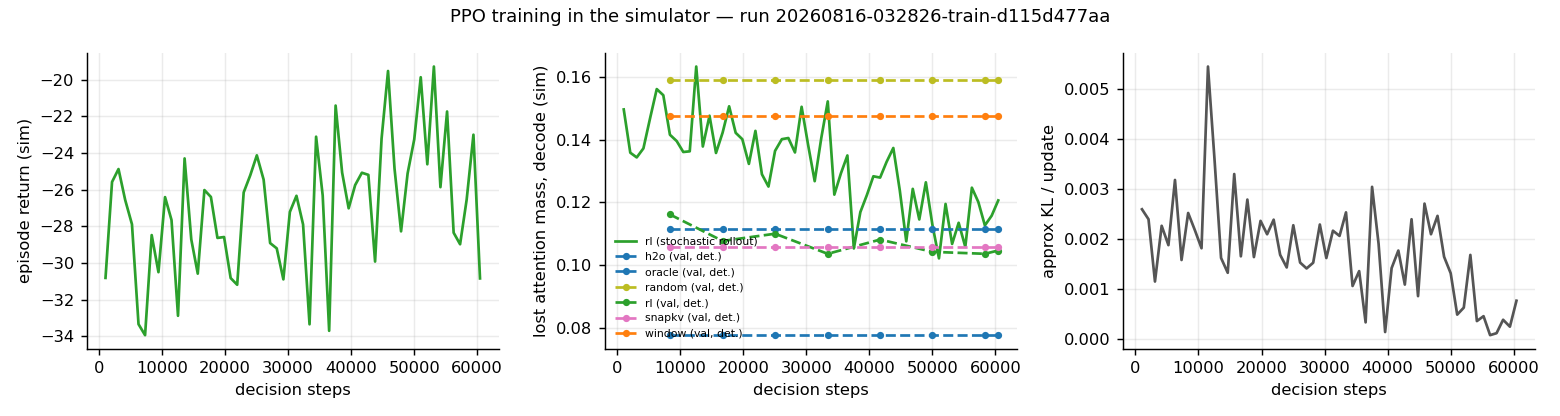
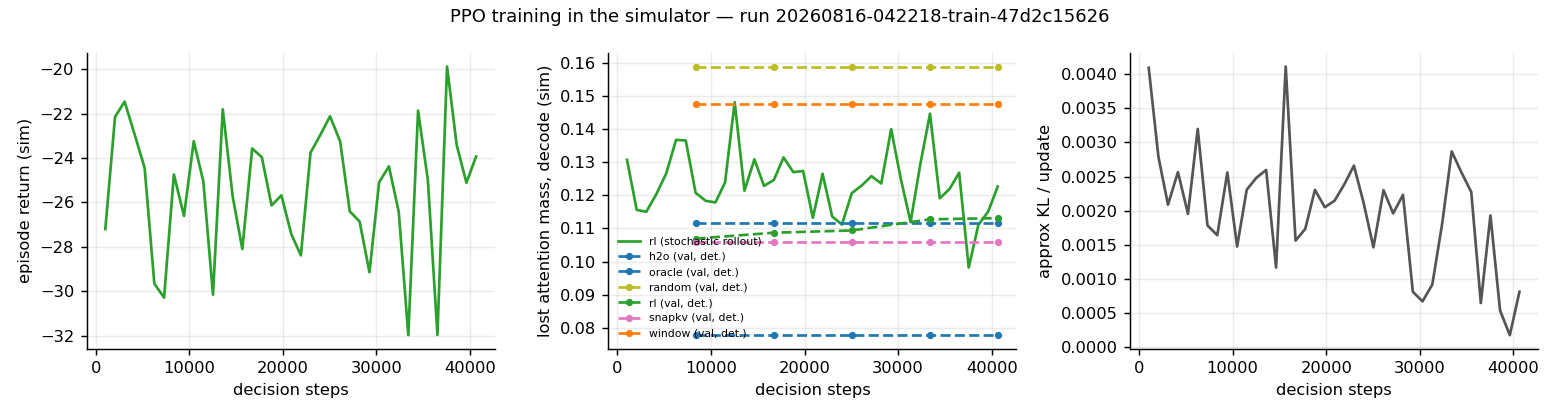
exp: benchmark run + report (latency/memory vs context, decode curve with 16K memory cliff, pre-cliff cost model); README results injected

diff --git a/kvrl/bench/cost_model.py b/kvrl/bench/cost_model.py
@@ -19,6 +19,7 @@ class DecodeCostModel:
     r2: float
     n_points: int
     device: str = ""
+    excluded: list | None = None  # cache lengths beyond the memory cliff (not fitted)
 
     def decode_ms(self, cache_len: float) -> float:
         return self.ms_per_token_base + self.ms_per_token_per_1k * cache_len / 1024.0
@@ -33,10 +34,22 @@ class DecodeCostModel:
         }
 
 
-def fit_decode_cost(curve: list[dict], device: str = "") -> DecodeCostModel:
-    """curve rows: {cache_len, decode_ms_per_tok_median}."""
-    x = np.array([r["cache_len"] for r in curve], dtype=float) / 1024.0
-    y = np.array([r["decode_ms_per_tok_median"] for r in curve], dtype=float)
+def fit_decode_cost(
+    curve: list[dict], device: str = "", cliff_factor: float = 4.0
+) -> DecodeCostModel:
+    """curve rows: {cache_len, decode_ms_per_tok_median}. Points whose cost exceeds
+    ``cliff_factor`` × the median of the others are treated as a memory cliff (e.g. the
+    machine starts swapping) and excluded from the affine fit but reported."""
+    xs = np.array([r["cache_len"] for r in curve], dtype=float)
+    ys = np.array([r["decode_ms_per_tok_median"] for r in curve], dtype=float)
+    keep = np.ones(len(xs), dtype=bool)
+    for i in range(len(xs)):
+        others = np.delete(ys, i)
+        if len(others) and ys[i] > cliff_factor * np.median(others):
+            keep[i] = False
+    excluded = [int(v) for v in xs[~keep]]
+    x = xs[keep] / 1024.0
+    y = ys[keep]
     if len(x) < 2:
         raise ValueError("need at least two curve points")
     A = np.stack([np.ones_like(x), x], axis=1)
@@ -44,4 +57,6 @@ def fit_decode_cost(curve: list[dict], device: str = "") -> DecodeCostModel:
     pred = A @ coef
     ss_res = float(((y - pred) ** 2).sum())
     ss_tot = float(((y - y.mean()) ** 2).sum()) or 1e-9
-    return DecodeCostModel(float(coef[0]), float(coef[1]), 1 - ss_res / ss_tot, len(x), device)
+    return DecodeCostModel(
+        float(coef[0]), float(coef[1]), 1 - ss_res / ss_tot, len(x), device, excluded
+    )

diff --git a/README.md b/README.md
@@ -157,8 +157,143 @@ Regenerate with `python scripts/make_report.py` (figures in `docs/figures/`, tab
 `docs/results.md`); `scripts/update_readme_results.py` copies them below verbatim.
 
 <!-- RESULTS:BEGIN -->
-_Results are being produced by the tracked runs listed in `.claude/context/EXPERIMENTS.md`;
-this section is filled by `scripts/make_report.py` — see `docs/results.md`._
+### Real-model evaluation — run `20260816-041435-eval-cc4cddaae0` (commit `902eebbc`, Apple MPS, 494 rows)
+
+| controller | budget | n | accuracy | NLL | fidelity | KV peak | model s | ctrl s | compact s |
+|---|---|---|---|---|---|---|---|---|---|
+| h2o | 50% | 26 | 0.091 | 0.840 | 0.553 | 54% | 5.91 | 0.009 | 0.108 |
+| keynorm | 50% | 26 | 0.409 | 0.678 | 0.745 | 54% | 3.20 | 0.006 | 0.112 |
+| random | 50% | 26 | 0.000 | 0.824 | 0.506 | 54% | 3.36 | 0.008 | 0.124 |
+| rl | 50% | 26 | 0.364 | 0.690 | 0.747 | 54% | 5.96 | 0.062 | 0.119 |
+| snapkv | 50% | 26 | 0.136 | 0.737 | 0.475 | 54% | 5.80 | 0.007 | 0.123 |
+| window | 50% | 26 | 0.227 | 0.800 | 0.522 | 54% | 3.45 | 0.007 | 0.149 |
+| h2o | 25% | 26 | 0.045 | 0.941 | 0.437 | 30% | 4.85 | 0.013 | 0.178 |
+| keynorm | 25% | 26 | 0.273 | 0.763 | 0.635 | 30% | 3.13 | 0.009 | 0.167 |
+| random | 25% | 26 | 0.000 | 0.914 | 0.331 | 30% | 3.28 | 0.011 | 0.172 |
+| rl | 25% | 26 | 0.136 | 0.783 | 0.521 | 30% | 4.75 | 0.080 | 0.172 |
+| snapkv | 25% | 26 | 0.000 | 0.868 | 0.355 | 30% | 5.02 | 0.010 | 0.161 |
+| window | 25% | 26 | 0.045 | 0.908 | 0.366 | 30% | 3.40 | 0.010 | 0.226 |
+| h2o | 12% | 26 | 0.045 | 0.965 | 0.382 | 17% | 3.99 | 0.015 | 0.227 |
+| keynorm | 12% | 26 | 0.227 | 0.803 | 0.575 | 17% | 2.97 | 0.012 | 0.226 |
+| random | 12% | 26 | 0.000 | 0.909 | 0.308 | 17% | 3.27 | 0.011 | 0.198 |
+| rl | 12% | 26 | 0.045 | 0.880 | 0.387 | 17% | 4.23 | 0.067 | 0.213 |
+| snapkv | 12% | 26 | 0.000 | 0.912 | 0.346 | 17% | 4.35 | 0.010 | 0.197 |
+| window | 12% | 26 | 0.000 | 0.944 | 0.316 | 17% | 3.26 | 0.012 | 0.261 |
+| full | 100% | 26 | 0.591 | 0.612 | 1.000 | 100% | 3.53 | 0.000 | 0.000 |
+
+#### Accuracy by task (25% budget)
+
+| task       |   full |   h2o |   keynorm |   random |   rl |   snapkv |   window |
+|:-----------|-------:|------:|----------:|---------:|-----:|---------:|---------:|
+| code       |   0.75 |  0.25 |      0.25 |     0.00 | 0.25 |     0.00 |     0.00 |
+| dependency |   0.00 |  0.00 |      0.00 |     0.00 | 0.00 |     0.00 |     0.00 |
+| kv         |   0.25 |  0.00 |      0.00 |     0.00 | 0.00 |     0.00 |     0.00 |
+| multihop   |   0.75 |  0.00 |      0.00 |     0.00 | 0.25 |     0.00 |     0.00 |
+| needle     |   1.00 |  0.00 |      0.83 |     0.00 | 0.17 |     0.00 |     0.17 |
+
+#### Paired comparisons (per prompt, bootstrap 95% CI)
+
+| controller | budget | vs | metric | mean diff (ctrl − vs) | 95% CI | ctrl better on | n | significant |
+|---|---|---|---|---|---|---|---|---|
+| h2o | 12% | full | nll | +0.3525 | [+0.2000, +0.5368] | 88% | 26 | yes |
+| rl | 12% | h2o | nll | -0.0847 | [-0.2478, +0.0337] | 54% | 26 | no |
+| rl | 12% | h2o | accuracy | +0.0000 | [-0.1364, +0.1364] | 5% | 22 | no |
+| h2o | 25% | full | nll | +0.3287 | [+0.1664, +0.5202] | 81% | 26 | yes |
+| rl | 25% | h2o | nll | -0.1576 | [-0.2996, -0.0298] | 69% | 26 | yes |
+| rl | 25% | h2o | accuracy | +0.0909 | [+0.0000, +0.2273] | 9% | 22 | no |
+| h2o | 50% | full | nll | +0.2274 | [+0.1077, +0.3819] | 77% | 26 | yes |
+| rl | 50% | h2o | nll | -0.1495 | [-0.3148, -0.0253] | 65% | 26 | yes |
+| rl | 50% | h2o | accuracy | +0.2727 | [+0.0909, +0.4545] | 27% | 22 | yes |
+| keynorm | 12% | full | nll | +0.1905 | [+0.0815, +0.3185] | 77% | 26 | yes |
+| rl | 12% | keynorm | nll | +0.0772 | [-0.0784, +0.2335] | 31% | 26 | no |
+| rl | 12% | keynorm | accuracy | -0.1818 | [-0.3648, +0.0000] | 5% | 22 | no |
+| keynorm | 25% | full | nll | +0.1511 | [+0.0425, +0.2812] | 77% | 26 | yes |
+| rl | 25% | keynorm | nll | +0.0200 | [-0.1234, +0.1747] | 54% | 26 | no |
+| rl | 25% | keynorm | accuracy | -0.1364 | [-0.3182, +0.0455] | 5% | 22 | no |
+| keynorm | 50% | full | nll | +0.0653 | [+0.0168, +0.1320] | 69% | 26 | yes |
+| rl | 50% | keynorm | nll | +0.0126 | [-0.0655, +0.0782] | 62% | 26 | no |
+| rl | 50% | keynorm | accuracy | -0.0455 | [-0.1830, +0.0909] | 5% | 22 | no |
+| random | 12% | full | nll | +0.2965 | [+0.1780, +0.4274] | 92% | 26 | yes |
+| rl | 12% | random | nll | -0.0287 | [-0.1433, +0.0719] | 46% | 26 | no |
+| rl | 12% | random | accuracy | +0.0455 | [+0.0000, +0.1364] | 5% | 22 | no |
+| random | 25% | full | nll | +0.3018 | [+0.1599, +0.4616] | 77% | 26 | yes |
+| rl | 25% | random | nll | -0.1307 | [-0.2922, +0.0310] | 62% | 26 | no |
+| rl | 25% | random | accuracy | +0.1364 | [+0.0000, +0.2727] | 14% | 22 | no |
+| random | 50% | full | nll | +0.2113 | [+0.1153, +0.3241] | 81% | 26 | yes |
+| rl | 50% | random | nll | -0.1335 | [-0.2711, -0.0082] | 73% | 26 | yes |
+| rl | 50% | random | accuracy | +0.3636 | [+0.1818, +0.5909] | 36% | 22 | yes |
+| rl | 12% | full | nll | +0.2678 | [+0.1548, +0.3875] | 92% | 26 | yes |
+| rl | 25% | full | nll | +0.1711 | [+0.0831, +0.2782] | 65% | 26 | yes |
+| rl | 50% | full | nll | +0.0778 | [+0.0190, +0.1447] | 50% | 26 | yes |
+| snapkv | 12% | full | nll | +0.2999 | [+0.1587, +0.4576] | 85% | 26 | yes |
+| rl | 12% | snapkv | nll | -0.0321 | [-0.1502, +0.0691] | 42% | 26 | no |
+| rl | 12% | snapkv | accuracy | +0.0455 | [+0.0000, +0.1364] | 5% | 22 | no |
+| snapkv | 25% | full | nll | +0.2554 | [+0.1430, +0.3737] | 77% | 26 | yes |
+| rl | 25% | snapkv | nll | -0.0843 | [-0.2226, +0.0576] | 62% | 26 | no |
+| rl | 25% | snapkv | accuracy | +0.1364 | [+0.0000, +0.2727] | 14% | 22 | no |
+| snapkv | 50% | full | nll | +0.1244 | [+0.0437, +0.2231] | 62% | 26 | yes |
+| rl | 50% | snapkv | nll | -0.0465 | [-0.1492, +0.0475] | 58% | 26 | no |
+| rl | 50% | snapkv | accuracy | +0.2273 | [-0.0455, +0.4545] | 32% | 22 | no |
+| window | 12% | full | nll | +0.3317 | [+0.2095, +0.4721] | 92% | 26 | yes |
+| rl | 12% | window | nll | -0.0639 | [-0.1854, +0.0401] | 50% | 26 | no |
+| rl | 12% | window | accuracy | +0.0455 | [+0.0000, +0.1364] | 5% | 22 | no |
+| window | 25% | full | nll | +0.2954 | [+0.1840, +0.4224] | 85% | 26 | yes |
+| rl | 25% | window | nll | -0.1242 | [-0.2523, -0.0002] | 69% | 26 | yes |
+| rl | 25% | window | accuracy | +0.0909 | [-0.0909, +0.2727] | 14% | 22 | no |
+| window | 50% | full | nll | +0.1873 | [+0.0637, +0.3267] | 54% | 26 | yes |
+| rl | 50% | window | nll | -0.1095 | [-0.2679, +0.0369] | 58% | 26 | no |
+| rl | 50% | window | accuracy | +0.1364 | [-0.1364, +0.4091] | 27% | 22 | no |
+
+### Latency / memory — run `20260816-045836-bench-592800b64f` (Apple MPS, medians of 3 repeats)
+
+| context | controller | budget | prefill s | decode ms/tok | controller s | compact s | KV peak | peak alloc MB |
+|---|---|---|---|---|---|---|---|---|
+| 1024 | full | 100% | 1.48 | 40.0 | 0.000 | 0.000 | 100% | 973 |
+| 1024 | h2o | 25% | 1.73 | 55.0 | 0.005 | 0.103 | 30% | 955 |
+| 1024 | rl | 25% | 1.64 | 60.9 | 0.036 | 0.137 | 30% | 955 |
+| 1024 | window | 25% | 1.29 | 36.3 | 0.004 | 0.103 | 30% | 960 |
+| 2048 | full | 100% | 3.78 | 49.1 | 0.000 | 0.000 | 100% | 973 |
+| 2048 | h2o | 25% | 4.15 | 60.6 | 0.014 | 0.202 | 28% | 962 |
+| 2048 | rl | 25% | 4.10 | 61.4 | 0.068 | 0.160 | 28% | 962 |
+| 2048 | window | 25% | 2.82 | 42.5 | 0.008 | 0.176 | 28% | 972 |
+| 4096 | full | 100% | 6.67 | 44.9 | 0.000 | 0.000 | 100% | 992 |
+| 4096 | h2o | 25% | 8.32 | 50.9 | 0.019 | 0.212 | 26% | 973 |
+| 4096 | rl | 25% | 7.72 | 49.4 | 0.066 | 0.219 | 26% | 973 |
+| 4096 | window | 25% | 4.86 | 27.4 | 0.009 | 0.172 | 26% | 973 |
+| 8192 | full | 100% | 64.74 | 1680.2 | 0.000 | 0.000 | 100% | 1041 |
+| 8192 | h2o | 25% | 23.42 | 63.4 | 0.068 | 0.555 | 26% | 976 |
+| 8192 | rl | 25% | 23.77 | 61.7 | 0.565 | 0.535 | 26% | 976 |
+| 8192 | window | 25% | 10.71 | 32.2 | 0.025 | 0.383 | 26% | 974 |
+
+Fitted decode cost model: 31.80 ms/token + 2.485 ms per 1K cached tokens (R² = 0.339, 5 points).
+
+
+#### Decode cost vs cache length (full cache)
+
+| cache length | decode ms/tok (median) | IQR |
+|---|---|---|
+| 512 | 28.3 | 26.7–28.9 |
+| 1024 | 48.1 | 29.1–52.7 |
+| 2048 | 36.0 | 33.7–36.7 |
+| 4096 | 27.6 | 26.7–32.7 |
+| 8192 | 57.5 | 45.9–60.0 |
+| 16384 | 1695.4 | 1475.5–1732.1 |
+
+### PPO training — run `20260816-042218-train-47d2c15626`
+
+- updates 39, decision steps 40642, episodes 1229, train time 2352.7 s, policy params 20097
+- best val lost-mass (decode, sim): 0.7148168385028839
+
+Sim lost-mass (decode) on val traces, deterministic policies:
+
+| controller   |   0.125 |   0.25 |    0.5 |
+|:-------------|--------:|-------:|-------:|
+| h2o          |  0.1568 | 0.1116 | 0.0576 |
+| oracle       |  0.1189 | 0.0777 | 0.0344 |
+| random       |  0.1894 | 0.1590 | 0.0985 |
+| rl           |  0.1506 | 0.1069 | 0.0539 |
+| snapkv       |  0.1528 | 0.1058 | 0.0515 |
+| window       |  0.1805 | 0.1476 | 0.1016 |
 <!-- RESULTS:END -->
 
 Measured facts that shaped the implementation (Apple M2, 8 GB, torch 2.13, transformers 5.15):

diff --git a/docs/results.md b/docs/results.md
@@ -87,13 +87,45 @@
 | rl | 50% | window | nll | -0.1095 | [-0.2679, +0.0369] | 58% | 26 | no |
 | rl | 50% | window | accuracy | +0.1364 | [-0.1364, +0.4091] | 27% | 22 | no |
 
-_no finished bench run found_
+### Latency / memory — run `20260816-045836-bench-592800b64f` (Apple MPS, medians of 3 repeats)
+
+| context | controller | budget | prefill s | decode ms/tok | controller s | compact s | KV peak | peak alloc MB |
+|---|---|---|---|---|---|---|---|---|
+| 1024 | full | 100% | 1.48 | 40.0 | 0.000 | 0.000 | 100% | 973 |
+| 1024 | h2o | 25% | 1.73 | 55.0 | 0.005 | 0.103 | 30% | 955 |
+| 1024 | rl | 25% | 1.64 | 60.9 | 0.036 | 0.137 | 30% | 955 |
+| 1024 | window | 25% | 1.29 | 36.3 | 0.004 | 0.103 | 30% | 960 |
+| 2048 | full | 100% | 3.78 | 49.1 | 0.000 | 0.000 | 100% | 973 |
+| 2048 | h2o | 25% | 4.15 | 60.6 | 0.014 | 0.202 | 28% | 962 |
+| 2048 | rl | 25% | 4.10 | 61.4 | 0.068 | 0.160 | 28% | 962 |
+| 2048 | window | 25% | 2.82 | 42.5 | 0.008 | 0.176 | 28% | 972 |
+| 4096 | full | 100% | 6.67 | 44.9 | 0.000 | 0.000 | 100% | 992 |
+| 4096 | h2o | 25% | 8.32 | 50.9 | 0.019 | 0.212 | 26% | 973 |
+| 4096 | rl | 25% | 7.72 | 49.4 | 0.066 | 0.219 | 26% | 973 |
+| 4096 | window | 25% | 4.86 | 27.4 | 0.009 | 0.172 | 26% | 973 |
+| 8192 | full | 100% | 64.74 | 1680.2 | 0.000 | 0.000 | 100% | 1041 |
+| 8192 | h2o | 25% | 23.42 | 63.4 | 0.068 | 0.555 | 26% | 976 |
+| 8192 | rl | 25% | 23.77 | 61.7 | 0.565 | 0.535 | 26% | 976 |
+| 8192 | window | 25% | 10.71 | 32.2 | 0.025 | 0.383 | 26% | 974 |
+
+Fitted decode cost model: 31.80 ms/token + 2.485 ms per 1K cached tokens (R² = 0.339, 5 points).
 
 
-### PPO training — run `20260816-032826-train-d115d477aa`
+#### Decode cost vs cache length (full cache)
 
-- updates 58, decision steps 60452, episodes 1837, train time 2567.7 s, policy params 20097
-- best val lost-mass (decode, sim): 0.10111077626546223
+| cache length | decode ms/tok (median) | IQR |
+|---|---|---|
+| 512 | 28.3 | 26.7–28.9 |
+| 1024 | 48.1 | 29.1–52.7 |
+| 2048 | 36.0 | 33.7–36.7 |
+| 4096 | 27.6 | 26.7–32.7 |
+| 8192 | 57.5 | 45.9–60.0 |
+| 16384 | 1695.4 | 1475.5–1732.1 |
+
+### PPO training — run `20260816-042218-train-47d2c15626`
+
+- updates 39, decision steps 40642, episodes 1229, train time 2352.7 s, policy params 20097
+- best val lost-mass (decode, sim): 0.7148168385028839
 
 Sim lost-mass (decode) on val traces, deterministic policies:
 
@@ -102,6 +134,6 @@ Sim lost-mass (decode) on val traces, deterministic policies:
 | h2o          |  0.1568 | 0.1116 | 0.0576 |
 | oracle       |  0.1189 | 0.0777 | 0.0344 |
 | random       |  0.1894 | 0.1590 | 0.0985 |
-| rl           |  0.1476 | 0.1036 | 0.0521 |
+| rl           |  0.1506 | 0.1069 | 0.0539 |
 | snapkv       |  0.1528 | 0.1058 | 0.0515 |
 | window       |  0.1805 | 0.1476 | 0.1016 |
